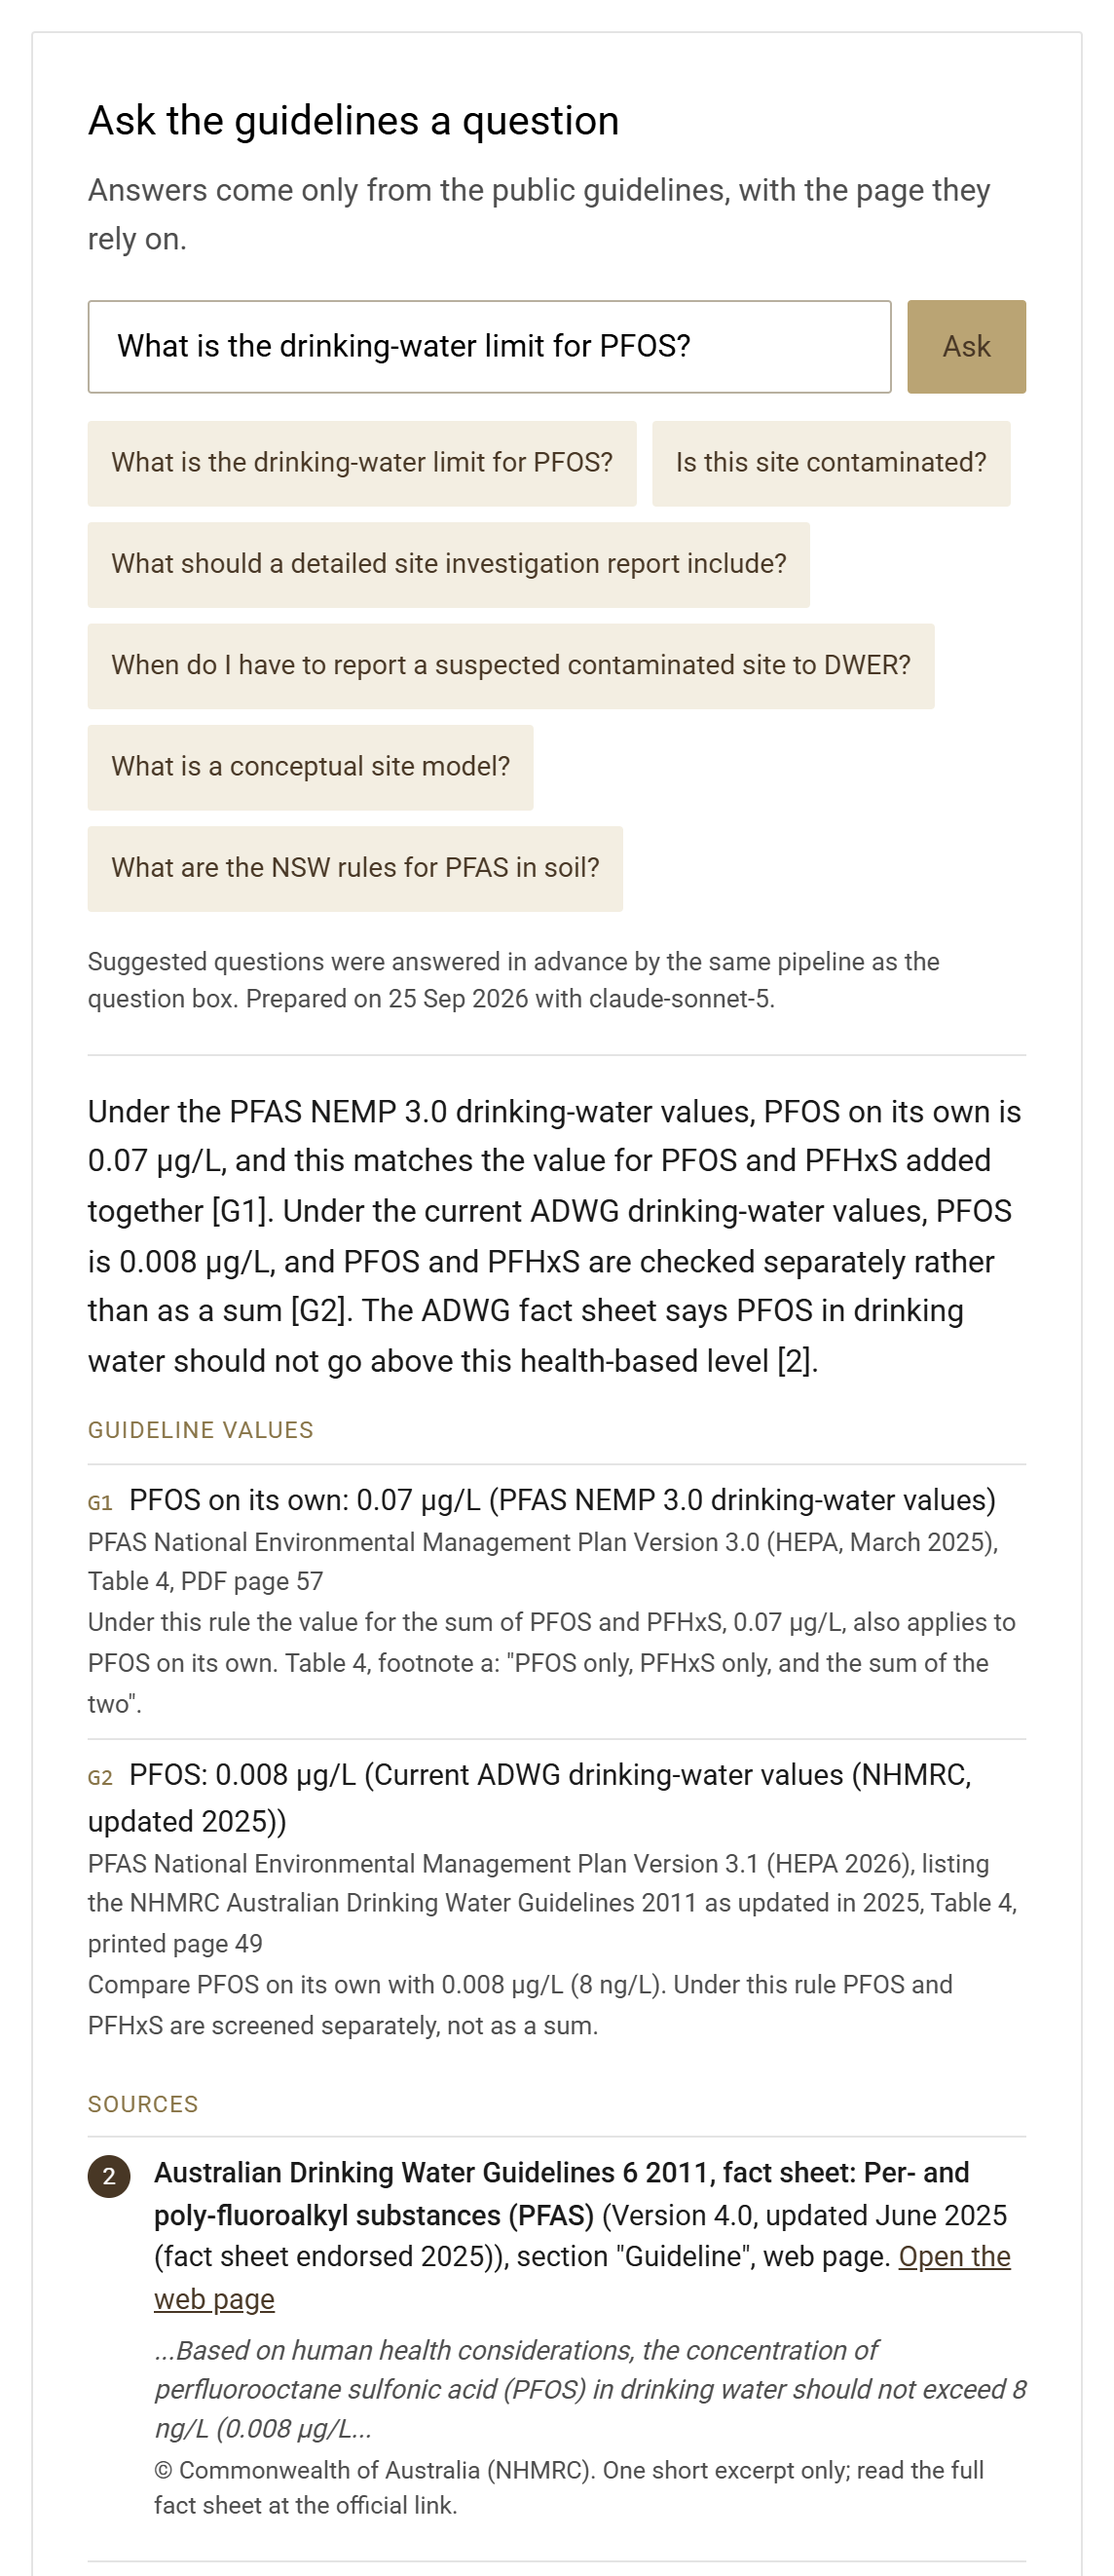
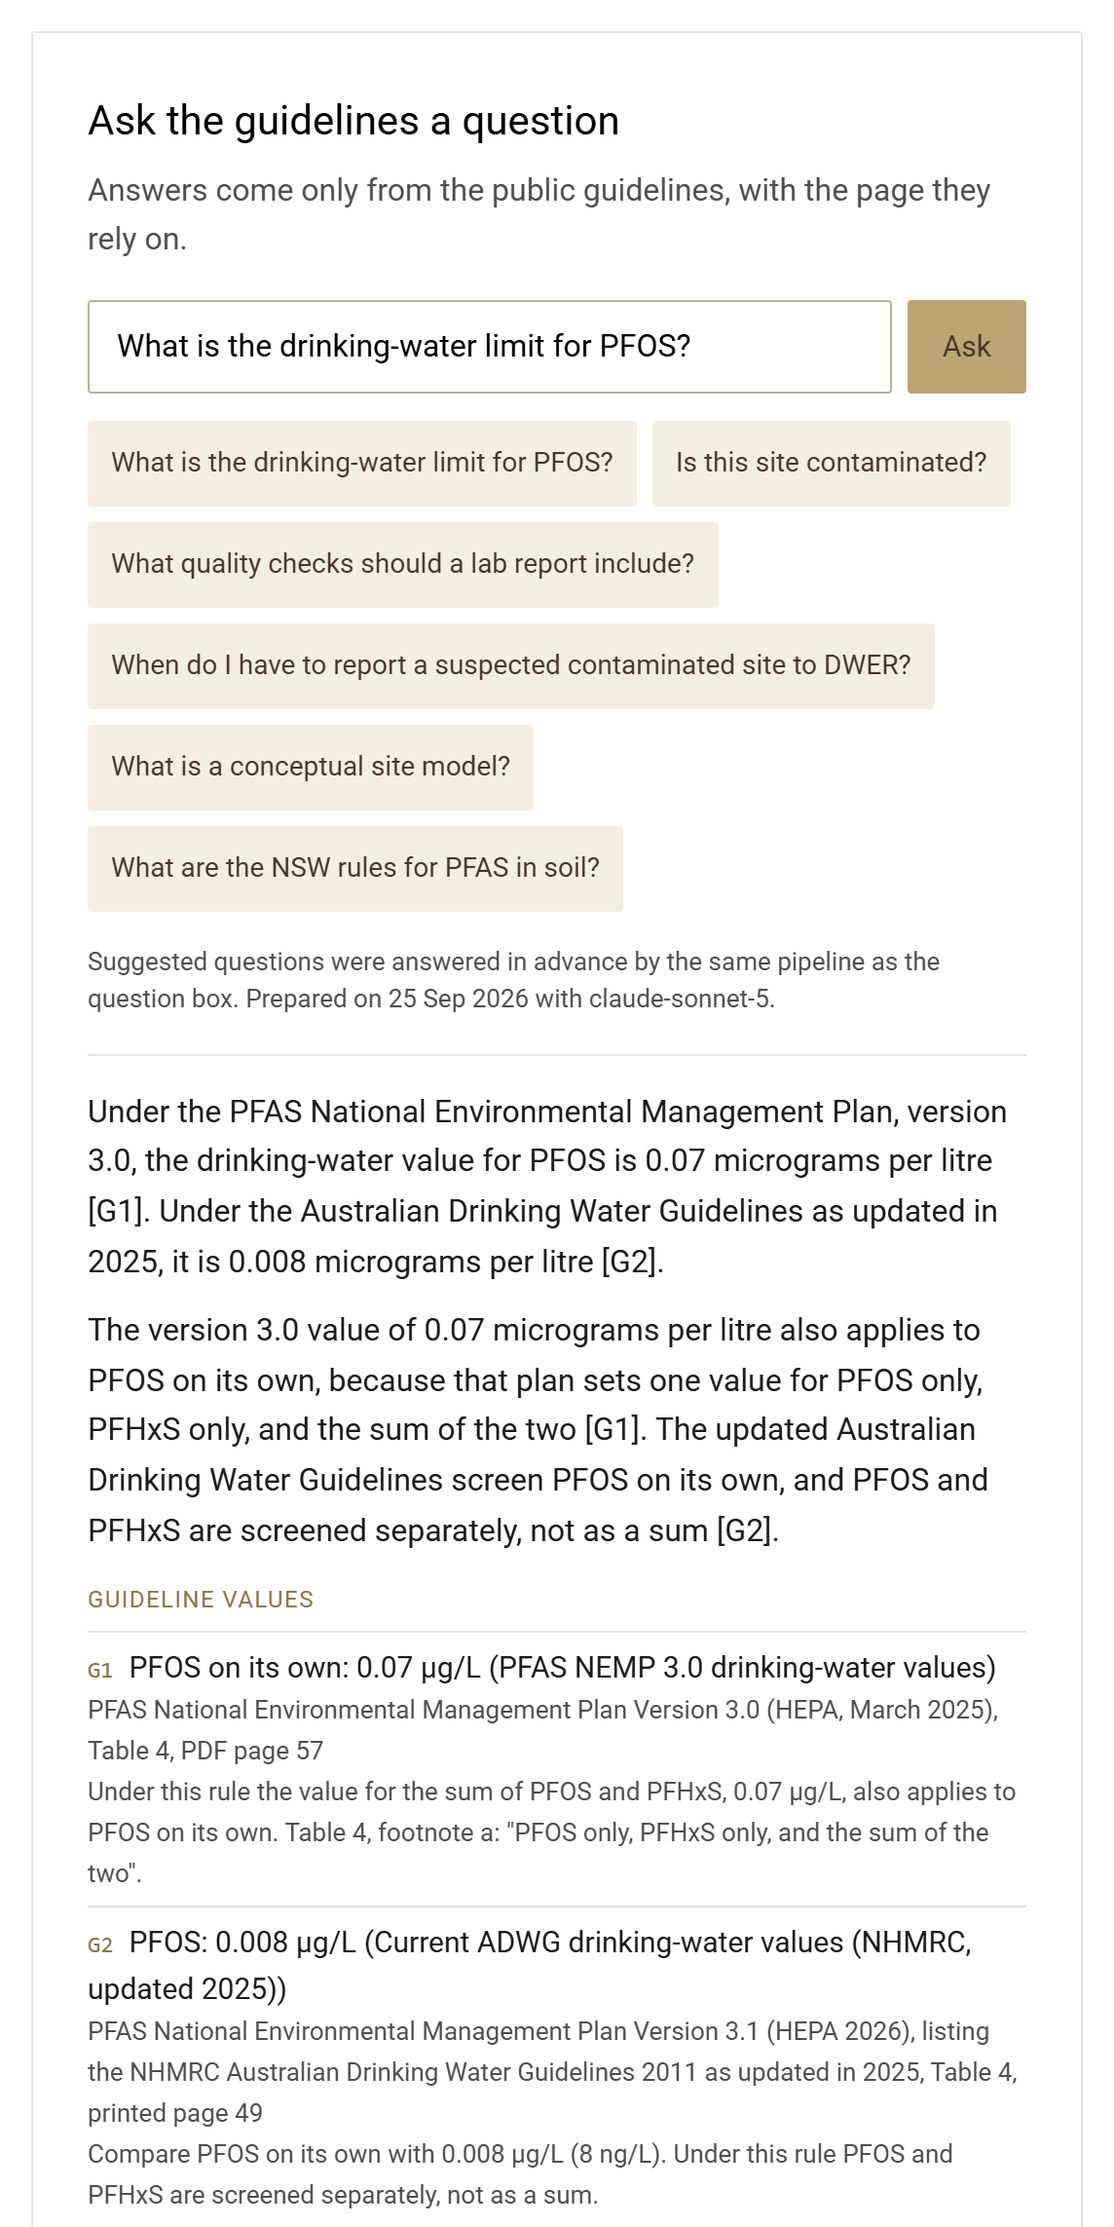
README: question box screenshot with the new front-page questions and the easy-first answer

Changed region(s): [[0.0612, 0.0311, 0.9178, 0.9939]]

diff --git a/README.md b/README.md
@@ -37,8 +37,8 @@ checker stops that sentence before anyone signs the report.
 
 ![Walkthrough step 3: the checker flags a sentence the lab results do not support](docs/images/check.png)
 
-The question box. The answer gives both drinking-water values side by side, each with its document, table and page,
-and the source it quotes.
+The question box. The answer starts with a short paragraph in plain words, then the detail, and gives both
+drinking-water values side by side, each with its document, table and page.
 
 <img src="docs/images/ask.png" alt="The question box answering what the drinking-water limit for PFOS is" width="572">
 
